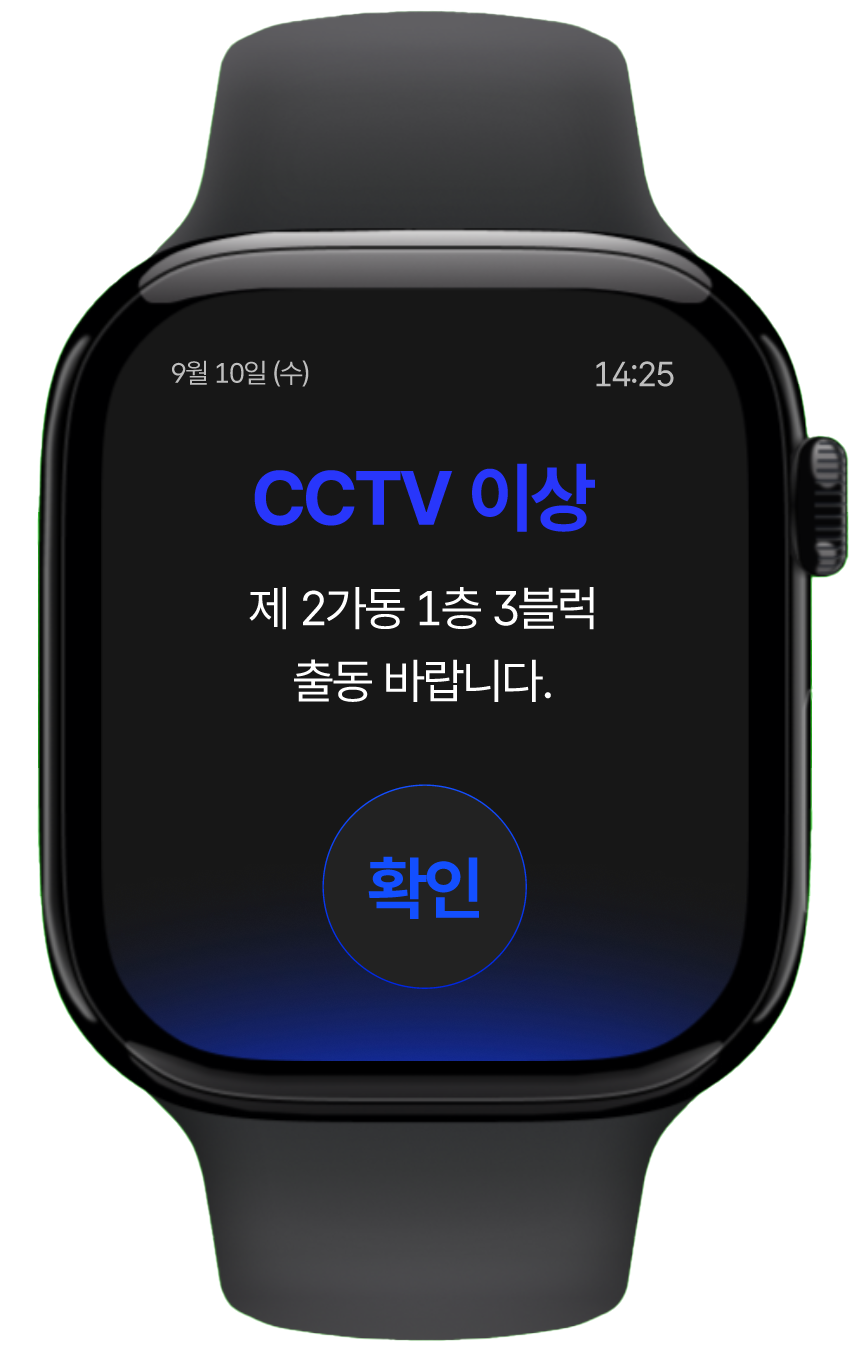
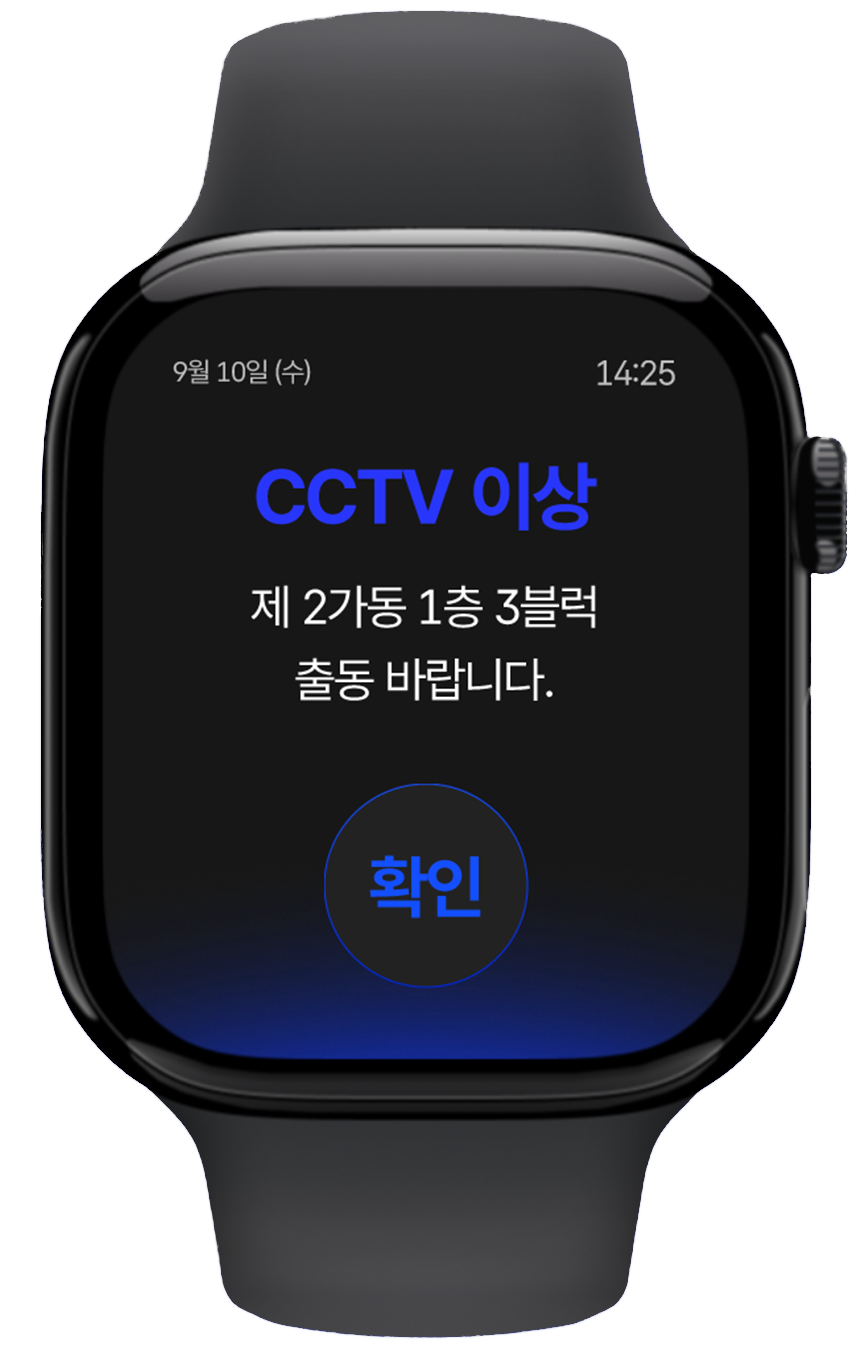
scrollTop add option

diff --git a/src/pages/Main/index.jsx b/src/pages/Main/index.jsx
@@ -223,7 +223,7 @@ export default function Main() {
         >
           <div className={styles.sectionNumber}>03</div>
           <h2 className={styles.sectionTitle}>태블릿</h2>
-          <p className={styles.sectionDescription}>현재 교정에 적용된디지털 인프라를 활용하면서, 교도관들의 일일 업무를 태블릿 하나에 담았습니다. 현장대응, 교대 인수인계, 수용자 프로파일, 일정관리, 그리고 스마트 어시턴트인 OK-E까지 하나의 흐름으로 연결됩니다.</p>
+          <p className={styles.sectionDescription}>현재 교정에 적용된 디지털 인프라를 활용하면서, 교도관들의 일일 업무를 태블릿 하나에 담았습니다. 현장대응, 교대 인수인계, 수용자 프로파일, 일정관리, 그리고 스마트 어시턴트인 OK-E까지 하나의 흐름으로 연결됩니다.</p>
         </div>
 
         <div 
@@ -232,7 +232,7 @@ export default function Main() {
         >
           <div className={styles.sectionNumber}>04</div>
           <h2 className={styles.sectionTitle}>스마트 워치</h2>
-          <p className={styles.sectionDescription}>긴급 대처가 필요한 상화응ㄹ 위해 스마트 워치를 활용합니다. 교정 시설 내 SOS부터 교도관들의 건강 모니터링, 무전 수신, 그리고 수용자 NFC 카드 인식까지의 기능을 통해 즉각 대응 솔루션으로의 기능을 수행합니다.</p>
+          <p className={styles.sectionDescription}>긴급 대처가 필요한 상황을 위해 스마트 워치를 활용합니다. 교정 시설 내 SOS부터 교도관들의 건강 모니터링, 무전 수신, 그리고 수용자 NFC 카드 인식까지의 기능을 통해 즉각 대응 솔루션으로의 기능을 수행합니다.</p>
         </div>
 
         <div 
@@ -241,7 +241,7 @@ export default function Main() {
         >
           <div className={styles.sectionNumber}>05</div>
           <h2 className={styles.sectionTitle}>키오스크</h2>
-          <p className={styles.sectionDescription}>교정시설의 각 수용돔 입구에서 교도관 모두를 위한 공용대시보드로 키오스크를 배치합니다. 교정시설의 시각화를 통해 한 눈에 교정의 상황읋 확인할 수 있게 해, 더 효율적이고 정확한 업무를 수행할 수 있는 환경을 제공합니다.</p>
+          <p className={styles.sectionDescription}>교정시설의 각 수용동 입구에서 교도관 모두를 위한 공용대시보드로 키오스크를 배치합니다. 교정시설의 시각화를 통해 한 눈에 교정의 상황읋 확인할 수 있게 해, 더 효율적이고 정확한 업무를 수행할 수 있는 환경을 제공합니다.</p>
         </div>
 
         <div 
@@ -250,7 +250,7 @@ export default function Main() {
         >
           <div className={styles.sectionNumber}>06</div>
           <h2 className={styles.sectionTitle}>OK-E</h2>
-          <p className={styles.sectionDescription}>대한민국의 새롭고 든든한 스마트 어시스턴트인 OK-E는 교정의 매일매일을 돕습니다. OK-E는 하이브리드 AI모델을 사용하여 현장과 데이터를 둘 다 분석하고 예측하며 더 정확하고도 높은 업무 생산성을 도모합니다.</p>
+          <p className={styles.sectionDescription}>대한민국의 새롭고 든든한 스마트 어시스턴트인 OK-E는 교정의 매일매일을 돕습니다. OK-E는 하이브리드 AI 모델을 사용하여 현장과 데이터를 둘 다 분석하고 예측하며 더 정확하고도 높은 업무 생산성을 도모합니다.</p>
         </div>
       </div>
 

diff --git a/src/pages/Intro/index.jsx b/src/pages/Intro/index.jsx
@@ -1,42 +1,55 @@
-import { useEffect } from "react";
+import { useEffect, useRef } from "react";
 import { useNavigate } from "react-router-dom";
 import styles from "./style.module.scss";
+import introVideo from '../../assets/mp4/three.mp4';
 
 export default function Intro() {
   const navigate = useNavigate();
+  const videoRef = useRef(null);
 
   useEffect(() => {
-    const handleScroll = () => {
-      if (window.innerHeight + window.scrollY >= document.body.offsetHeight - 10) {
-        navigate("/main");
-      }
+    let scrollTimeout;
+    let hasNavigated = false;
+
+    const navigateToMain = () => {
+      if (hasNavigated) return;
+      hasNavigated = true;
+      navigate("/main");
     };
 
-    window.addEventListener("scroll", handleScroll);
+    const handleScroll = () => {
+      if (hasNavigated) return;
+      clearTimeout(scrollTimeout);
+      scrollTimeout = setTimeout(navigateToMain, 100);
+    };
+
+    const handleWheel = (e) => {
+      if (hasNavigated) return;
+      e.preventDefault();
+      navigateToMain();
+    };
+
+    window.addEventListener("scroll", handleScroll, { passive: true });
+    window.addEventListener("wheel", handleWheel, { passive: false });
 
     return () => {
       window.removeEventListener("scroll", handleScroll);
+      window.removeEventListener("wheel", handleWheel);
+      clearTimeout(scrollTimeout);
     };
   }, [navigate]);
 
   return (
     <div className={styles.introContainer}>
-      {/* 3D 영역 - 다른 작업자가 구현할 예정 */}
-      <div className={styles.threeDContainer}>
-        <div className={styles.placeholder3D}>
-          <h3>123123123</h3>
-          <h2>3D 영역</h2>
-          <p>작업 예정</p>
-        </div>
-      </div>
-      
-      {/* 스크롤 안내 */}
-      <div className={styles.scrollIndicator}>
-        <p>스크롤하며 3D 보기 가장 하단에 도달 시에 main으로 넘어감</p>
-        <div className={styles.scrollArrow}>↓</div>
-      </div>
-      
-      <h1 className={styles.introTitle}>OK</h1>
+      <video
+        ref={videoRef}
+        className={styles.introVideo}
+        src={introVideo}
+        autoPlay
+        muted
+        loop
+        playsInline
+      />
     </div>
   );
 }

diff --git a/src/pages/Intro/style.module.scss b/src/pages/Intro/style.module.scss
@@ -1,98 +1,16 @@
-
 @use '../../styles/main' as *;
 
 .introContainer {
   position: relative;
   width: 100vw;
-  height: 300vh; 
-  overflow-x: hidden;
+  height: 100.5vh;
+  overflow: hidden;
   margin-left: calc(-1 * var(--site-margin));
   margin-right: calc(-1 * var(--site-margin));
 }
 
-.threeDContainer {
-  position: sticky;
-  top: 0;
+.introVideo {
   width: 100%;
-  height: 100vh;
-  display: flex;
-  align-items: center;
-  justify-content: center;
-}
-
-.placeholder3D {
-  text-align: center;
-  color: $color-white;
-  
-  h2 {
-    font-size: 3rem;
-    margin-bottom: 1rem;
-    font-family: $font-gotham;
-  }
-  
-  p {
-    font-size: 1.2rem;
-    opacity: 0.8;
-  }
-}
-
-.scrollIndicator {
-  position: fixed;
-  bottom: 30px;
-  left: 50%;
-  transform: translateX(-50%);
-  text-align: center;
-  color: $color-white;
-  z-index: 10;
-  
-  p {
-    margin-bottom: 10px;
-    font-size: 1rem;
-    opacity: 0.8;
-  }
-}
-
-.scrollArrow {
-  font-size: 2rem;
-  animation: bounce 2s infinite;
-}
-
-@keyframes bounce {
-  0%, 20%, 50%, 80%, 100% {
-    transform: translateY(0);
-  }
-  40% {
-    transform: translateY(-10px);
-  }
-  60% {
-    transform: translateY(-5px);
-  }
-}
-
-.introTitle {
-  position: absolute;
-  bottom: 60px;
-  left: 50px;
-  font-size: 4rem;
-  color: $color-white;
-  font-weight: 700;
-  letter-spacing: 3px;
-  z-index: 5;
-}
-
-// 5K 해상도 대응
-@include imac5k {
-  .placeholder3D {
-    h2 {
-      font-size: 5rem;
-    }
-    
-    p {
-      font-size: 2.2rem;
-    }
-  }
-
-  .introTitle {
-    font-size: 7rem;
-  }
+  height: 100%;
+  object-fit: cover;
 }

diff --git a/src/pages/SmartWatch/style.module.scss b/src/pages/SmartWatch/style.module.scss
@@ -374,7 +374,7 @@
 
 .carouselPanel {
   position: relative;
-  background: rgb(51, 51, 51);
+  background: rgb(49, 49, 49);
   box-shadow: 0 10px 40px rgba(0,0,0,0.5) inset, 0 10px 60px rgba(0,0,0,0.35);
   padding: 1.25rem 2rem;
   max-width: 100%;
@@ -496,7 +496,7 @@
   gap: 0;
   width: 100%;
   overflow: visible;
-  padding-right: 32px;
+  padding-right: 16px;
   box-sizing: border-box;
 }
 
@@ -706,7 +706,7 @@
   }
   
   .textSide {
-    padding-right: 28px;
+    padding-right: 14px;
   }
   
   .textWindow {
@@ -756,7 +756,7 @@
   }
   
   .textSide {
-    padding-right: 32px;
+    padding-right: 16px;
   }
   
   .textWindow {
@@ -823,7 +823,7 @@
   }
   
   .textSide {
-    padding-right: 32px;
+    padding-right: 16px;
   }
   
   .textWindow {
@@ -914,7 +914,7 @@
   }
   
   .textSide {
-    padding-right: 40px;
+    padding-right: 20px;
   }
   
   .textWindow {
@@ -1548,7 +1548,7 @@
   flex-direction: column;
   position: relative;
   z-index: 2;
-  right: 50px;
+  right: 0px;
 }
 
 .alertSubTitle {
@@ -1631,7 +1631,7 @@
   }
   
   .alertWatchTop {
-    transform: translateX(-30px) translateY(320px);
+    transform: translateX(0px) translateY(320px);
   }
   
   .alertWatchBottom {
@@ -1654,11 +1654,11 @@
   }
   
   .alertWatchTop {
-    transform: translateX(-60px) translateY(400px);
+    transform: translateX(0px) translateY(400px);
   }
   
   .alertWatchBottom {
-    transform: translateX(240px) translateY(250px);
+    transform: translateX(340px) translateY(250px);
   }
   
   .alertSubTitle {

diff --git a/src/App.jsx b/src/App.jsx
@@ -1,5 +1,5 @@
 import { Routes, Route, useLocation } from "react-router-dom";
-// import ScrollToTop from "./components/ScrollToTop";
+import ScrollToTop from "./components/ScrollToTop";
 // import Aurora from "./components/Aurora";
 import Intro from "./pages/Intro";
 import Main from "./pages/Main";
@@ -14,8 +14,8 @@ function App() {
   const { pathname } = useLocation();
   return (
     <>
-      {/* <ScrollToTop />
-      {pathname !== "/" && (
+      <ScrollToTop />
+      {/* {pathname !== "/" && (
         <Aurora
           colorStops={["#0015FF", "#0015FF", "#0015FF"]}
           blend={1}

diff --git a/src/pages/SmartWatch/index.jsx b/src/pages/SmartWatch/index.jsx
@@ -6,7 +6,7 @@ import videoSrc from '../../assets/mp4/watch.webm';
 import bpm from '../../assets/watchimage/bpm.mp4';
 import cctvImg from '../../assets/watchimage/CCTV.png';
 import danger from '../../assets/watchimage/danger.mp4';
-import fuckdongImg from '../../assets/watchimage/폭동.png';
+import fuckdongImg from '../../assets/watchimage/fuckdong.png';
 import nfcVideo from '../../assets/watchimage/NFC.mp4';
 import radio from '../../assets/watchimage/radio.mp4';
 import run from '../../assets/watchimage/Run.mp4';
